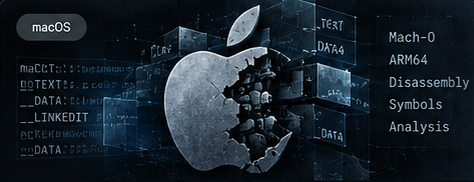
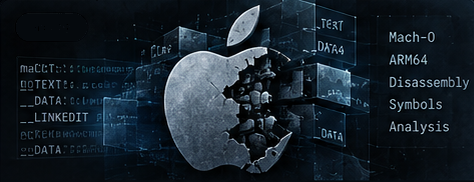
fix(home): dynamic report thumbnails, fix Linux badge overlap, update branding to Reverse Engineering, remove About buttons

Changed region(s): [[0.0295, 0.0549, 0.2068, 0.2473]]

diff --git a/scripts/build.js b/scripts/build.js
@@ -789,6 +789,13 @@ function buildReportPage(r) {
 
   flushTable();
 
+  if (!r.firstImage && fs.existsSync(imagesDir)) {
+    const existingImages = fs.readdirSync(imagesDir).filter(f => !f.startsWith('.') && /\.(png|jpe?g|webp|gif|svg)$/i.test(f));
+    if (existingImages.length > 0) {
+      r.firstImage = `images/${encodeURIComponent(existingImages[0])}`;
+    }
+  }
+
   let bodyHtml = htmlBuffer.join('\n');
   if (!bodyHtml.startsWith('</section>')) {
     bodyHtml = `<section id="overview">${bodyHtml}</section>`;
@@ -2185,7 +2192,7 @@ function buildPortalIndex(allReports) {
 <head>
   <meta charset="UTF-8">
   <meta name="viewport" content="width=device-width, initial-scale=1.0">
-  <title>MARE — Malware Analysis &amp; Research Environment</title>
+  <title>MARE — Malware Analysis &amp; Reverse Engineering</title>
   <link rel="icon" type="image/png" href="assets/home/mare-logo.png">
   <link rel="preconnect" href="https://fonts.googleapis.com">
   <link rel="preconnect" href="https://fonts.gstatic.com" crossorigin>
@@ -3141,7 +3148,7 @@ function buildPortalIndex(allReports) {
           <div class="brand-vsep" aria-hidden="true"></div>
           <div class="brand-subtext">
             <span>MALWARE ANALYSIS</span>
-            <span>&amp; RESEARCH ENVIRONMENT</span>
+            <span>&amp; REVERSE ENGINEERING</span>
           </div>
         </div>
       </a>
@@ -3189,12 +3196,6 @@ function buildPortalIndex(allReports) {
             <a href="malware-binary-diffing/index.html" class="dropdown-link">BinDiff Code Comparison</a>
           </div>
         </div>
-
-        <div class="nav-link-item">
-          <a class="nav-link" href="https://github.com/Lynk4/mare" target="_blank" rel="noopener">
-            <span>About</span>
-          </a>
-        </div>
       </nav>
 
       <div class="right-nav-actions">
@@ -3231,9 +3232,6 @@ function buildPortalIndex(allReports) {
           <a href="#investigations" class="btn-cta-primary">
             <span>Explore investigations</span>
             <svg width="15" height="15" viewBox="0 0 24 24" fill="none" stroke="currentColor" stroke-width="2.5" stroke-linecap="round" stroke-linejoin="round"><line x1="5" y1="12" x2="19" y2="12"></line><polyline points="12 5 19 12 12 19"></polyline></svg>
-          </a>
-          <a href="https://github.com/Lynk4/mare" target="_blank" rel="noopener" class="btn-cta-secondary">
-            <span>About the research</span>
           </a>
         </div>
 
@@ -3312,27 +3310,30 @@ function buildPortalIndex(allReports) {
     <!-- Cards Stream Grid -->
     <div class="investigations-grid" id="investigations-grid">
       ${displayReports.map(r => {
-        let cardImg = 'assets/home/card-threatintel.png';
+        let fallbackImg = 'assets/home/card-threatintel.png';
         let badgeClass = 'badge-cross';
-        let badgeText = r.os;
+        let badgeText = r.os || 'Cross-platform';
 
         if (r.os === 'macOS') {
-          cardImg = 'assets/home/card-macos.png';
+          fallbackImg = 'assets/home/card-macos.png';
           badgeClass = 'badge-macos';
           badgeText = 'macOS';
         } else if (r.os === 'Windows') {
-          cardImg = 'assets/home/card-windows.png';
+          fallbackImg = 'assets/home/card-windows.png';
           badgeClass = 'badge-windows';
           badgeText = 'Windows';
         } else if (r.os === 'Linux') {
-          cardImg = 'assets/home/card-threatintel.png';
+          fallbackImg = 'assets/home/card-threatintel.png';
           badgeClass = 'badge-linux';
           badgeText = 'Linux';
         } else {
-          cardImg = 'assets/home/card-threatintel.png';
+          fallbackImg = 'assets/home/card-threatintel.png';
           badgeClass = 'badge-cross';
           badgeText = 'Cross-platform';
         }
+
+        // Use first image from report if available, else clean platform banner
+        let cardImg = r.firstImage ? `${r.id}/${r.firstImage}` : fallbackImg;
 
         // Custom exact overrides for the 3 featured reference cards
         let displayTitle = r.title;
@@ -3347,7 +3348,6 @@ function buildPortalIndex(allReports) {
           displayReadTime = '18 min read';
           badgeClass = 'badge-macos';
           badgeText = 'macOS';
-          cardImg = 'assets/home/card-macos.png';
         } else if (r.id === 'unpacking-modified-upx-malware') {
           displayTitle = 'Unpacking Modified UPX Malware';
           displayDesc = 'Analysis of a modified UPX-packed executable, focusing on PE header reconstruction, section metadata, and techniques to recover a valid structure for further static analysis.';
@@ -3355,15 +3355,13 @@ function buildPortalIndex(allReports) {
           displayReadTime = '13 min read';
           badgeClass = 'badge-windows';
           badgeText = 'Windows';
-          cardImg = 'assets/home/card-windows.png';
         } else if (r.id === 'digit-stealer') {
           displayTitle = 'Digit Stealer: Inside a macOS Campaign';
           displayDesc = 'Technical analysis of Digit Stealer, examining sample artifacts, infrastructure, and key implementation details observed in the campaign.';
           displayDate = 'Sep 20, 2026';
           displayReadTime = '16 min read';
-          badgeClass = 'badge-cross';
-          badgeText = 'Cross-platform';
-          cardImg = 'assets/home/card-threatintel.png';
+          badgeClass = 'badge-macos';
+          badgeText = 'macOS';
         }
 
         const searchKeywords = `${displayTitle} ${displayDesc} ${r.category} ${r.os} ${r.family} ${r.targets} ${r.delivery}`.toLowerCase();
@@ -3515,6 +3513,13 @@ function buildPortalIndex(allReports) {
         setTimeout(() => { if (searchInput) searchInput.focus(); }, 400);
       });
     }
+
+    // Support URL param e.g. ?platform=Linux
+    try {
+      const urlParams = new URLSearchParams(window.location.search);
+      const p = urlParams.get('platform');
+      if (p) selectFilter(p);
+    } catch (e) {}
   </script>
 </body>
 </html>
